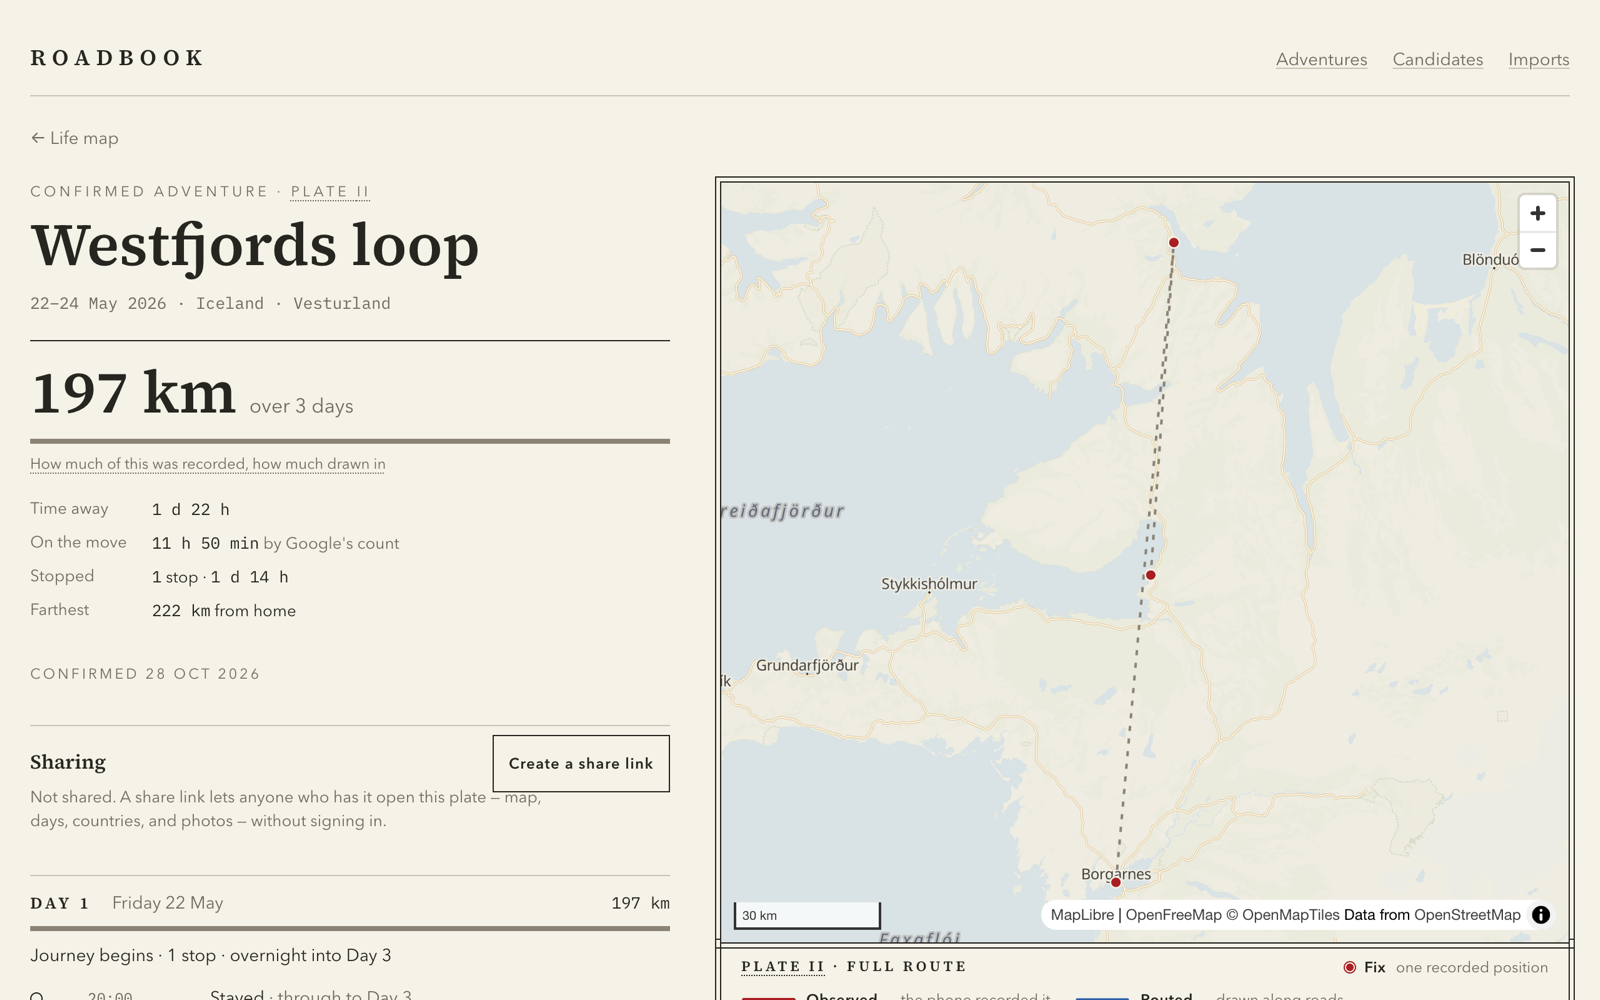
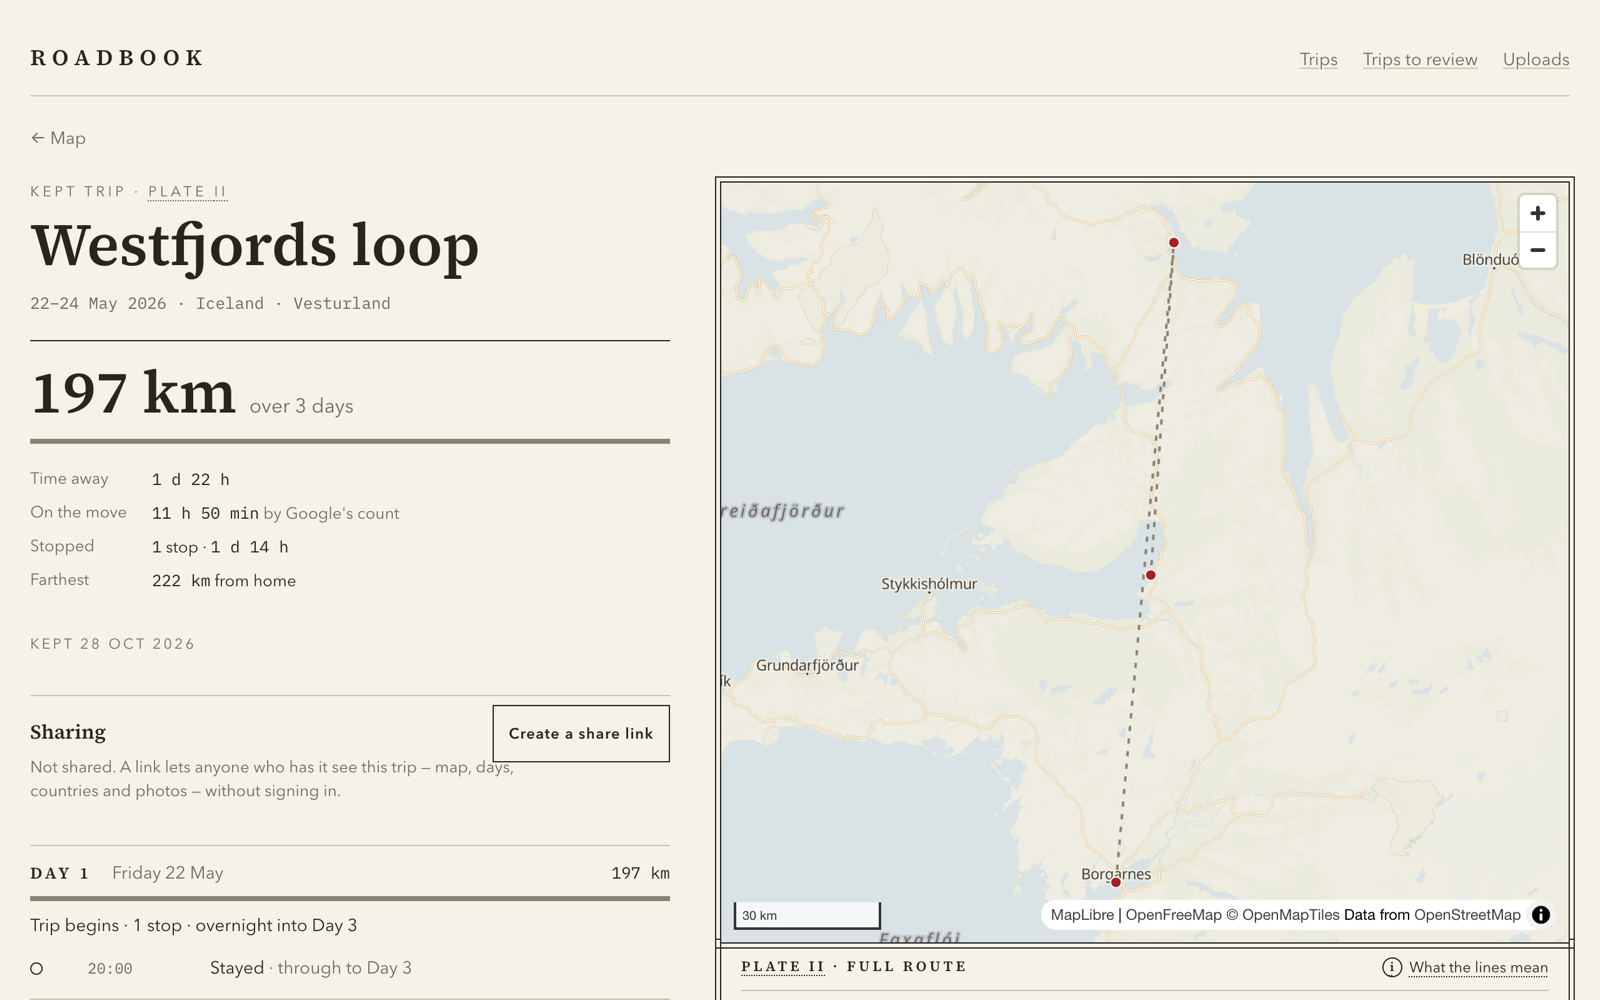
docs(product): the copy pass closes — DESIGN §6 amended for the legend control, the README's walkthrough in the new words, the after-set of screenshots, and the log

diff --git a/docs/product/LOG.md b/docs/product/LOG.md
@@ -1,0 +1,115 @@
+# Copy pass — log
+
+Closed 2026-11-03, branch `copy-pass`, twelve commits of one screen each
+plus the docs. The brief: non-technical testers said Roadbook was too
+technical and they could not work out how to move through it. The rule
+and the word list are in `words.md`, the approved text screen by screen
+in `copy.md`, the audit of every string in `copy-audit.md`, and the
+decisions as they were made in `DECISIONS.md`.
+
+## What the pass did
+
+Every user-visible string in the web app, the landing, the two waitlist
+replies and the messages the Go service sends to the browser was
+rewritten under one rule: say what the person gets, not what Roadbook
+does, in words a traveller would use. Nothing internal was renamed —
+routes, the API, `openapi.yaml`, database columns, test identifiers and
+the engineering documents keep their names.
+
+The words that changed everywhere: *candidate* and *adventure* → **trip**
+(to review / kept); *confirm* and *dismiss* → **keep** and **leave out**;
+*import(s)* → **upload(s)**; *detection* → **finding your trips**;
+*observation / position / fix* → **point**; *seat* → **spot**;
+*instance* → **this Roadbook**; *provider* → **Google**; *revoke* →
+**stop sharing**; *overlay* → **for a story**; *sidecar* → **info file**;
+and the printed legend under every map → one **"What the lines mean"**
+control. The four line styles are drawn exactly as before; the labels
+inside the control are unchanged. The nav reads Trips · Trips to review ·
+Uploads.
+
+Three product decisions rode along, each the maintainer's and each
+recorded in `words.md`: *plate* survives only as the printed numeral on
+covers and map margins; the photos door left the start page (the start
+page is for someone with a Timeline file; photos stay on Uploads); and
+operator-facing hints (`roadbook serve`, "the server log has details")
+appear only on an instance without sign-in.
+
+## Measured
+
+`web/scripts/copy-count.cjs` against the development server over the
+scratch demo API, the same way phase 16 measured. "Before" is phase 16's
+closing figure for each page (its DECISIONS tables); "terms" counts the
+words on the tool's vocabulary list.
+
+| page | before, phone (words / sentences / titles / terms) | after, phone | after, desktop |
+|---|---|---|---|
+| landing | 390 / 47 / 0 / 10 | 377 / 45 / 0 / 7 | 382 / 46 / 0 / 8 |
+| welcome | 257 / 27 / 0 / 12 | 138 / 16 / 0 / 3 | 138 / 16 / 0 / 3 |
+| home (life map) | — | 19 / 3 / 3 / 0 | 19 / 3 / 3 / 0 |
+| adventures (Trips) | 99 | 78 / 10 / 3 / 3 | 78 / 10 / 3 / 3 |
+| candidates (Trips to review) | 91 | 97 / 10 / 0 / 7 | 104 / 10 / 0 / 6 |
+| adventure 1 | 355 / 42 / 6 / 11 | 310 / 39 / 15 / 6 | 310 / 39 / 15 / 6 |
+| adventure 2 | 298 / 36 / 6 / 11 | 251 / 32 / 9 / 5 | 251 / 32 / 9 / 5 |
+| adventure 3 | 330 / 42 / 6 / 12 | 286 / 38 / 11 / 7 | 286 / 38 / 11 / 7 |
+| imports (Uploads) | 95 / 11 / 0 / 6 | 97 / 12 / 0 / 3 | 113 / 12 / 0 / 6 |
+
+Vocabulary hits across all pages, desktop, after: plate 12 (the printed
+numerals) · stops 12 · timeline 7 · stop 4 · export 3 · score 3 · source
+2 · atlas 1. Every one of those is a word kept on purpose (`words.md`,
+"kept on purpose"). The "titles" column on the trip pages went up because
+the map's own controls (MapLibre's zoom buttons and attribution) carry
+title attributes; no teaching text sits in a title any more.
+
+Trips to review grew by six words: the intro is one sentence longer than
+the old one-line term, and the keyboard hint is a sentence. The landing
+barely moved because phase 16 CP2b had already rewritten it; its layout
+cut is the next step (below).
+
+## What broke, and why each fix took the form it did
+
+- **The preview proxy reset connections under load.** To show the sign-in
+  page on a stack that runs without sign-in, a small pass-through in
+  front of the scratch API faked one session call. Under the Playwright
+  suite it reset connections and failed a third of the tests. The fix was
+  to use it only for the sign-in look and point the dev server straight at
+  the API for everything else — a tool for one purpose, not a layer to
+  keep.
+- **A stuck "an import is already running" lock** on the scratch API, left
+  by an aborted test upload before the pass. Rebuilding the API container
+  cleared it and brought the new Go messages up at the same time.
+- **Next 16 allows one dev server per checkout**, so a second instance on
+  another port for the sign-in preview refused to start. Hence the proxy.
+- **SWC drops the space before an inline element** (the phase 7 trap, again):
+  the flag line's "65% — “How this route…" rendered without its space
+  until the dash moved into a `{" — "}` expression.
+- **Tests pinned sentences, not meaning.** Eleven e2e and unit pins
+  changed with their screens, each in the same commit; the legend spec
+  now opens the control first (`openLegend` in `e2e/helpers.ts`). The Go
+  tests pin rejection *kinds*, not sentences, so every Go message changed
+  without a Go test changing — the right division, kept.
+- **The photos door's two anchors** (`photos`, `never-enabled`) were targets
+  of a rejection link. Removing the section meant retiring them in
+  `rejection-anchors.ts` and pointing a photo-in-the-Timeline-picker at
+  "What the right file looks like" instead, with the Go message naming
+  the Uploads page.
+
+## Reported, not done
+
+- **The landing is still cluttered** (eight blocks, two pictures of a
+  trip, two "Make mine" buttons). A layout cut — one picture, one button,
+  one-line steps and promises, the waitlist box reduced to a field — is
+  the next step, mockup first on the maintainer's phone, then the
+  five-second test with friends.
+- **"One line"**: the maintainer's wish that a trip read as one route from
+  A to B. Drawing the four kinds in one style is a rendering change; filling
+  the dashed gaps with real roads is the routing work (OSRM on the host,
+  a batch after each upload, coverage decisions). Either is a PRODUCT.md
+  and CLAUDE.md amendment (invariants 5, 6, 8) before code. Its brief waits
+  until the landing cut lands.
+- **The review page's shape** (cards with a score) and **the Uploads table**
+  (eleven columns) are unchanged; only their words are.
+
+For PLAN.md (the maintainer edits PLAN on main): two backlog entries,
+"Landing cut" and "One line", with the text above; and a note on the
+phase 16 line that the atlas-vocabulary teaching it introduced was
+superseded by this pass's word list.

diff --git a/README.md b/README.md
@@ -83,33 +83,37 @@ person was. `roadbook states -src <file>` replaces the table; `-if-empty`
 is what the compose startup runs.
 
 The home page is the life map: one map
-holding every confirmed adventure's route. Nothing is confirmed yet, so it
-points you at the **Candidates** page, where the 3 detected candidates
+holding every kept trip's route. Nothing is kept yet, so it
+points you at the **Trips to review** page, where the 3 detected candidates
 appear as cards led by their routes' shapes: a dense south-coast drive to
 Höfn, a sparse Westfjords trip to Ísafjörður, and an Akureyri weekend by
 air. The daily commute noise and a
 44 km day trip are correctly absent — near-home movement and trips without a
-far destination are not adventures. Confirm a candidate with a name and it
-joins the life map, and its plate cover joins the **Adventures** page — an
+far destination are not adventures. Keep a candidate with a name and it
+joins the life map, and its plate cover joins the **Trips** page — an
 atlas of framed covers (route shape, dates, distance with its composition,
 countries), newest first, numbered in the order travelled. Click a route on
 the map (or use the List control — everything on
-the map is equally reachable by keyboard) to open the adventure page: a
-cover of honest figures — distance with its measured/inferred composition,
-dates, countries and regions, any warnings in words, and a summary in the
-traveller's words (time away, time on the move by the source's account,
-stops, places passed through, farthest from home) — and the journey
-sliced into civil days, each with its fixes, transits, and dwells. Days the record
-cannot describe say so: the Westfjords trip's middle day reads "no movement
-observed" rather than inventing one. The Höfn drive renders mostly observed
+the map is equally reachable by keyboard) to open the trip page: a
+cover of honest figures — distance with its measured/inferred composition
+drawn as a bar, dates, countries and regions, any warnings in words, and a
+summary in the traveller's words (time away, time on the move by the
+source's account, stops, places passed through, farthest from home) — and
+the journey sliced into civil days, each with its fixes, transits, and
+dwells. Days the record cannot describe say so: the Westfjords trip's
+middle day reads "Nothing recorded this day" rather than inventing one.
+The four line kinds are drawn on every map; their names sit behind one
+"What the lines mean" control rather than printed under each map (the
+copy pass of 2026-11, `docs/product/`), and the account of the drawing
+is a closed fold at the foot of the trip page. The Höfn drive renders mostly observed
 legs; the Ísafjörður trip is dominated by honestly unknown gaps (a handful
 of fixes across 455 road-km); the Akureyri weekend draws its two flights as
 arcs, excluded from road-distance validation.
 
-The plate margin under the map offers the adventure as a file, in two
-formats: "Download as image" renders the plate as a 2400×1600 PNG — the
-map with its route, and the margin printed below it; "Download as
-overlay" renders a transparent 1080×1920 PNG of the route and figures
+The plate margin under the map offers the trip as a file, in two
+formats: "Download the map" renders the plate as a 2400×1600 PNG — the
+map with its route, and the margin printed below it; "Download for a
+story" renders a transparent 1080×1920 PNG of the route and figures
 alone, for dropping onto your own photo or story. See "The plate as a
 file" below for what each carries.
 
@@ -150,12 +154,11 @@ re-read it without asking you for the file again; detection runs
 automatically with default parameters and your candidates appear. Uploads
 are capped at 2 GiB. A wrong file — a Takeout zip, an old-format export, a
 PDF — is rejected at upload with a message saying what it was and a
-pointer back to the walkthrough for the right one; an image lands on a
-pointer to the photos section instead, because photos go in through their
-own door.
+pointer back to the walkthrough for the right one; an image is a wrong
+file too, with a note that photos go in from the **Uploads** page.
 
-Photos travel the same browser path: the front door's photos section (and
-the **Imports** page) opens your photo library directly — no export step —
+Photos travel the same browser path: the **Uploads** page's photos panel
+opens your photo library directly — no export step —
 and reports a per-file verdict for each photo rather than an all-or-nothing
 result. Detection runs automatically afterwards, exactly as for a Timeline
 upload.
@@ -176,7 +179,7 @@ after a new import — never touches your confirmations: decisions attach to
 adventures by a stable identity and survive re-detection; every detection
 run records the exact parameters that produced it.
 
-The **Imports** page in the UI lists every import attempt, including failed
+The **Uploads** page in the UI lists every upload, including failed
 ones, with what the file turned out to be and what to do about it.
 
 Photos can also be attached to a specific confirmed adventure. Camera
@@ -266,7 +269,7 @@ day-by-day narrative, countries, and the adventure's photos, including
 the ones that came in through the photo import. No account is needed to
 open it, in either mode. The link is the whole permission: the server
 keeps only a fingerprint of it, so the URL is shown once at creation, and
-revoking it (one tap on the same page) makes it stop opening immediately.
+"Stop sharing" (one tap on the same page) makes it stop opening immediately.
 Shared pages carry a `noindex` directive. Nothing else of yours is
 reachable through a link — not the life map, not other adventures.
 

diff --git a/docs/phase-6/DESIGN.md b/docs/phase-6/DESIGN.md
@@ -111,6 +111,26 @@ shared view and travels on an exported image. One constant carries it
 exported image and overlay, and the Playwright legend spec. Decision
 record: `docs/phase-16/DECISIONS.md`.
 
+*Amendment (2026-11-03, the copy pass, maintainer-approved):* the legend
+is no longer a permanent fixture printed under every map. It sits behind
+one small control, **"What the lines mean"** (`web/components/
+legend-info.tsx`, the same native popover as the teaching terms, with an
+inline fallback), on the life map, the trips shelf, the trip page's map
+margin and the start page's sample map; on the static landing it is a
+closed `<details>`. The four names, their order, the sample lines and the
+2026-10-29 wording are unchanged, and the four line styles are drawn on
+every map exactly as before — the distinction stays in the geometry
+(CLAUDE.md invariants 5 and 8). What changed is the reading: the
+maintainer's testers do not ask whether a stretch was recorded or drawn,
+and the printed legend was clutter on every map. The provenance bar
+keeps its place under every headline distance, drawn in the four inks,
+but carries no caption and no teaching term; the account of the drawing
+is the closed fold at the foot of the trip page. The exported image and
+overlay keep their printed legend (there is nothing to tap on a picture).
+The Playwright legend spec now opens the control and reads the four
+entries. Decision record: `docs/product/words.md` (decision 2) and
+`docs/product/DECISIONS.md`.
+
 Standing recommendation confirmed: no home markers on the life map.
 
 ## 7. Parked

diff --git a/docs/product/DECISIONS.md b/docs/product/DECISIONS.md
@@ -209,3 +209,19 @@ settled on the way.
   reported in copy.md's "Needs more than words").
 - **Would change our mind:** a tester asking what "precise points" are —
   then that column folds into Points.
+
+## 2026-11-03 — Close
+
+- **Chosen:** DESIGN §6 gains a dated amendment (the legend behind one
+  control; labels, order, samples, line styles unchanged; the bar
+  uncaptioned; the exported image keeps its printed legend). The README's
+  walkthrough names the controls as they now read. `docs/screens/
+  copy-pass-*` is the committed after-set, captured from the demo through
+  the dev server. The after-table and the breakages are in `LOG.md`. The
+  PLAN.md entries (landing cut, "one line") are drafted in LOG.md for the
+  maintainer to place on main.
+- **Rejected:** merging the branch from this session (the maintainer
+  merges, one merge for the whole pass, then the host pulls main).
+- **Would change our mind:** the five-second test with friends failing on
+  the new words — then `words.md` is the place to change, and each screen
+  follows.

diff --git a/docs/screens/README.md b/docs/screens/README.md
@@ -60,3 +60,12 @@ puppeteer-core and Brave headless (`--use-angle=swiftshader` renders the
 MapLibre canvas). When the adventure page changes materially, recapture
 and replace this file in the same change, so the landing never shows a UI
 the app no longer has.
+
+The copy pass (2026-11, `docs/product/`) adds the set `copy-pass-*`: the
+same eight pages after every user-facing string was rewritten in a
+traveller's words and the legend moved behind its "What the lines mean"
+control. Captured from the demo dataset through a development server
+pointed at a scratch stack, so the page content is exactly the committed
+code's (Next's development indicator removed before each shot). The same
+change recaptured `phase16-cp2b-adventure-2.png`, the landing's "The app
+itself", since the trip page's margin and words changed.
